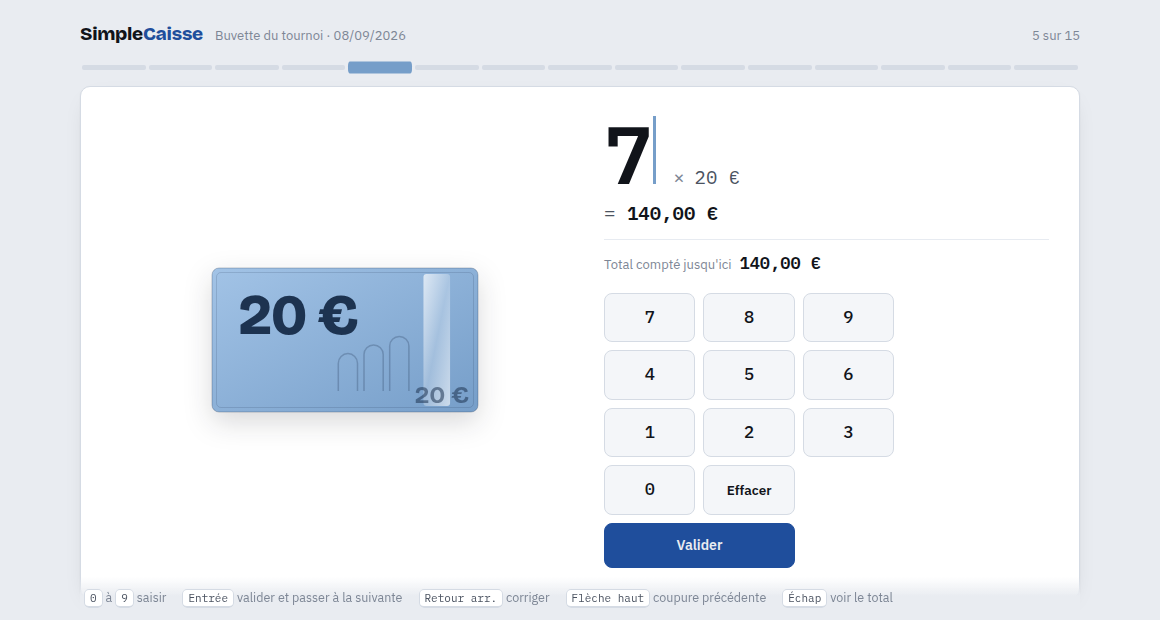
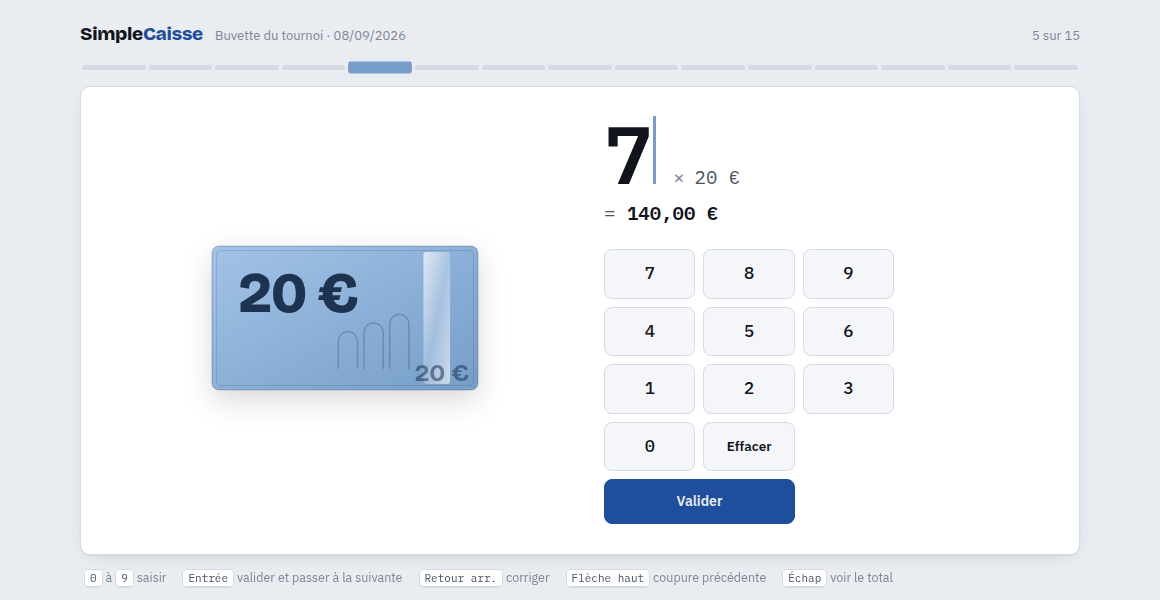
Comptage : retrait du total courant
L'écran ne montre plus que la coupure, le nombre saisi et son sous-total.
Le total se lit au bilan, à la fin du comptage.

Claude-Session: https://claude.ai/code/session_01KWtS1CZwwuaXzSFdVBgruF

diff --git a/index.html b/index.html
@@ -418,15 +418,8 @@
   .tally-x { font-size: 19px; color: var(--ink-3); }
   .tally-sub { font-family: var(--font-num); font-variant-numeric: tabular-nums; font-size: 19px; color: var(--ink-2); }
   .tally-sub b { color: var(--ink); font-weight: 600; }
-  .tally-run {
-    margin-top: 12px; padding-top: 11px;
-    border-top: 1px solid var(--line-2);
-    display: flex; align-items: baseline; gap: 8px;
-    font-size: 13px; color: var(--ink-3);
-  }
-  .tally-run b { font-family: var(--font-num); font-variant-numeric: tabular-nums; font-size: 17px; font-weight: 600; color: var(--ink); }
 
-  .pad { display: grid; grid-template-columns: repeat(3, 1fr); gap: 8px; max-width: 290px; margin-top: 16px; }
+  .pad { display: grid; grid-template-columns: repeat(3, 1fr); gap: 8px; max-width: 290px; margin-top: 22px; }
   .pad button {
     background: var(--card-2); border: 1px solid var(--line); border-radius: 8px;
     padding: 11px 0; font-family: var(--font-num); font-size: 17px; font-weight: 500; cursor: pointer;
@@ -685,7 +678,6 @@
             </div>
             <div class="tally-eq"><span class="tally-sub">= <b id="tallySub">0,00 €</b></span></div>
           </div>
-          <div class="tally-run">Total compté jusqu'ici <b id="tallyRun">0,00 €</b></div>
           <div class="pad" id="pad"></div>
         </div>
       </div>
@@ -1424,17 +1416,7 @@ var qrcode=function(){function i(t,r){function a(t,r){g=function(t){for(var r=ne
     ti.textContent = val === "" ? "0" : val;
     ti.classList.toggle("blank", val === "");
     $("tallySub").textContent = euros(parseInt(val || "0", 10) * d.c);
-    $("tallyRun").textContent = euros(running());
     renderBar();
-  }
-
-  function running() {
-    var t = 0;
-    for (var i = 0; i < DENOMS.length; i++) {
-      var n = (i === S.idx && S.buffer !== "") ? parseInt(S.buffer, 10) : S.counts[i];
-      t += (n || 0) * DENOMS[i].c;
-    }
-    return t;
   }
 
   function commit() {
